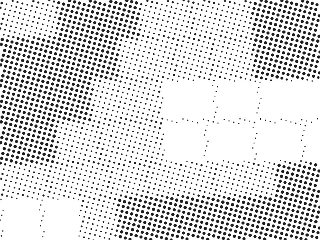
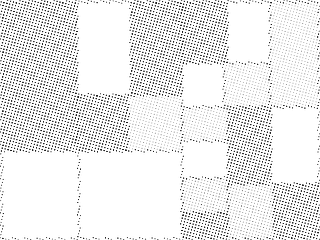
fix(art): rebuild plates as real data structures, add pointer parallax
The plates halftoned raw noise and read as noise. Each is now an actual
structure, screened afterwards: contour lines from gradient-normalised level
crossings; tree crowns drawn and clustered by a density field; a watershed
from priority-flood pit filling plus flow accumulation thresholded on
catchment size; parcels from recursive off-centre subdivision. Screen also
went finer (cell=3) — at cell=5 the lattice swallowed contour lines and
channel threads, which is what made the first set look random.

Plates now track the cursor and settle back on leave (transform only,
reduced-motion aware, rect cached on enter).

Fixes a zero-width .plate: <figure> carries a UA margin of 1em 40px and 80px
per column collapsed the grid tracks. It failed silently — a zero-size rect
makes the parallax offsets NaN, and translate(NaNpx) is dropped by the CSS
parser without error.

diff --git a/web/index.html b/web/index.html
@@ -8,7 +8,7 @@
 <link rel="preconnect" href="https://fonts.googleapis.com">
 <link rel="preconnect" href="https://fonts.gstatic.com" crossorigin>
 <link href="https://fonts.googleapis.com/css2?family=Inter+Tight:wght@400;500;600;700&family=JetBrains+Mono:wght@400;500;600&display=swap" rel="stylesheet">
-<link rel="stylesheet" href="/static/style.css?v=11">
+<link rel="stylesheet" href="/static/style.css?v=13">
 </head>
 <body>
 
@@ -194,6 +194,40 @@ const esc = (s) => String(s ?? "").replace(/[&<>"]/g, c => ({ "&": "&amp;", "<":
     if (!nodes.some((n) => n.getAttribute("data-shown") === "true"))
       nodes.forEach((n) => n.setAttribute("data-shown", "true"));
   }, 1200);
+})();
+
+/* --- plates track the cursor, then settle back --- */
+(function () {
+  if (window.matchMedia("(prefers-reduced-motion: reduce)").matches) return;
+  const DRIFT = 9; // px of parallax at the edge of a plate
+
+  document.querySelectorAll(".plate").forEach((plate) => {
+    const img = plate.querySelector("img");
+    let rect = null;
+
+    // Measure once on enter: reading getBoundingClientRect on every pointermove,
+    // interleaved with writing transform, thrashes layout.
+    plate.addEventListener("pointerenter", () => { rect = plate.getBoundingClientRect(); });
+
+    plate.addEventListener("pointermove", (e) => {
+      if (!rect) rect = plate.getBoundingClientRect();
+      // A zero-size rect would make these NaN, and `translate(NaNpx)` is silently
+      // dropped by the parser — the effect just stops working with no error.
+      if (!rect.width || !rect.height) return;
+      const nx = (e.clientX - rect.left) / rect.width - 0.5;
+      const ny = (e.clientY - rect.top) / rect.height - 0.5;
+      // Scale up first so the parallax shift never exposes the plate's edge.
+      img.style.transition = "transform 110ms linear";
+      img.style.transform =
+        `scale(1.09) translate(${(-nx * DRIFT).toFixed(2)}px, ${(-ny * DRIFT).toFixed(2)}px)`;
+    });
+
+    plate.addEventListener("pointerleave", () => {
+      rect = null;
+      img.style.transition = "transform 620ms var(--ease, cubic-bezier(.16,1,.3,1))";
+      img.style.transform = "";
+    });
+  });
 })();
 
 document.querySelectorAll(".tab").forEach(tab => {

diff --git a/web/style.css b/web/style.css
@@ -182,13 +182,19 @@ body::after {
   border: 1px solid var(--line); border-bottom: 0;
   background: var(--surface);
 }
-.plate { position: relative; border-right: 1px solid var(--line); overflow: hidden; }
+/* margin:0 is load-bearing — <figure> carries a UA default of `1em 40px`, and 80px
+   per column collapses the grid tracks to zero width. */
+.plate { position: relative; margin: 0; border-right: 1px solid var(--line); overflow: hidden; }
 .plate:last-child { border-right: 0; }
 .plate img {
   display: block; width: 100%; height: 104px; object-fit: cover;
-  opacity: 0.9; transition: opacity var(--dur) var(--ease), transform var(--dur) var(--ease);
+  opacity: 0.88;
+  /* Only opacity is transitioned here — transform is driven by the pointer handler,
+     which sets its own timing (fast while tracking, slow easing back to rest). */
+  transition: opacity var(--dur) var(--ease);
+  will-change: transform;
 }
-.plate:hover img { opacity: 1; transform: scale(1.04); }
+.plate:hover img { opacity: 1; }
 .plate span {
   position: absolute; left: 0; right: 0; bottom: 0;
   padding: 0.35rem 0.55rem;

diff --git a/scripts/make_art.py b/scripts/make_art.py
@@ -12,6 +12,7 @@ Out:  web/img/*.png, web/img/logo.svg
 
 from __future__ import annotations
 
+import heapq
 import math
 from pathlib import Path
 
@@ -117,46 +118,145 @@ def field_horizon(w: int = 1500, h: int = 620) -> np.ndarray:
 
 
 def field_terrain(w: int = 320, h: int = 240) -> np.ndarray:
-    """Topographic contour bands."""
-    elev = fbm((h, w), 5, 110)
-    bands = np.sin(elev * math.pi * 14.0)
-    contours = 1.0 - np.clip(1.0 - np.abs(bands) * 4.5, 0, 1)
-    return np.clip(contours * 0.75 + elev * 0.45, 0, 1)
+    """Real topographic contour lines.
+
+    Halftoning a raw elevation field just yields noise. Contours have to be drawn as
+    *lines*: find where elevation crosses each level, and divide by the local gradient
+    so the line keeps an even width instead of ballooning across flat ground.
+    """
+    elev = fbm((h, w), octaves=5, freq=150)
+    levels = elev * 9.0
+    gy, gx = np.gradient(levels)
+    grad = np.hypot(gx, gy) + 1e-6
+    crossing = np.abs(levels - np.round(levels)) / grad
+    lines = np.clip(crossing / 0.85, 0, 1)
+    # Every fifth contour is an index line, drawn heavier, as on a real map.
+    index = (np.round(levels) % 5 == 0)
+    lines = np.where(index, np.clip(crossing / 1.6, 0, 1), lines)
+    return np.clip(lines, 0, 1)
 
 
 def field_canopy(w: int = 320, h: int = 240) -> np.ndarray:
-    """Tree-crown cover with open gaps."""
-    base = fbm((h, w), 6, 48)
-    crowns = np.clip((base - 0.42) * 3.2, 0, 1)
-    return np.clip(1.0 - crowns * 0.88, 0, 1)
+    """Individual tree crowns, clustered into stands with clearings between them."""
+    img = Image.new("L", (w, h), 255)
+    draw = ImageDraw.Draw(img)
+    density = fbm((h, w), octaves=4, freq=90)
+
+    for _ in range(1400):
+        x, y = int(RNG.integers(0, w)), int(RNG.integers(0, h))
+        # Stands cluster where the density field is high; clearings stay open.
+        if density[y, x] < 0.44 or RNG.random() > density[y, x]:
+            continue
+        r = float(RNG.uniform(2.6, 7.0))
+        tone = int(RNG.integers(20, 95))
+        draw.ellipse([x - r, y - r, x + r, y + r], fill=tone)
+
+    return np.asarray(img.filter(ImageFilter.GaussianBlur(0.6)), np.float32) / 255.0
 
 
-def field_watershed(w: int = 320, h: int = 240) -> np.ndarray:
-    """Ridged noise — the branching channels of a drainage basin."""
-    n = fbm((h, w), 6, 120)
-    ridged = 1.0 - np.abs(n * 2.0 - 1.0)
-    return np.clip(1.0 - np.clip((ridged - 0.62) * 5.0, 0, 1) * 0.95, 0, 1)
+def _fill_pits(elev: np.ndarray) -> np.ndarray:
+    """Priority-flood depression filling.
+
+    Without this, flow terminates in every local minimum and the network comes out as
+    scattered fragments. Leaning on a steep regional tilt "fixes" that by making all
+    flow run straight downhill — which trades fragments for parallel streaks and still
+    isn't a drainage network. Filling the pits is what lets a noise-dominated surface
+    (the kind that actually branches) route properly.
+    """
+    h, w = elev.shape
+    filled = elev.copy()
+    seen = np.zeros((h, w), bool)
+    heap: list[tuple[float, int, int]] = []
+
+    for x in range(w):
+        for y in (0, h - 1):
+            heapq.heappush(heap, (float(filled[y, x]), y, x))
+            seen[y, x] = True
+    for y in range(h):
+        for x in (0, w - 1):
+            if not seen[y, x]:
+                heapq.heappush(heap, (float(filled[y, x]), y, x))
+                seen[y, x] = True
+
+    while heap:
+        e, y, x = heapq.heappop(heap)
+        for dy, dx in ((-1, 0), (1, 0), (0, -1), (0, 1)):
+            ny, nx = y + dy, x + dx
+            if 0 <= ny < h and 0 <= nx < w and not seen[ny, nx]:
+                seen[ny, nx] = True
+                # The epsilon keeps a usable gradient across filled flats.
+                raised = max(float(filled[ny, nx]), e + 1e-5)
+                filled[ny, nx] = raised
+                heapq.heappush(heap, (raised, ny, nx))
+    return filled
+
+
+def field_watershed(w: int = 260, h: int = 195) -> np.ndarray:
+    """A dendritic channel network from actual flow accumulation.
+
+    Depressions are filled, then water is routed downhill cell by cell (steepest
+    descent, highest ground first) and the accumulated flow thresholded. Thresholded
+    noise only ever produces blobs; this produces genuine branching drainage.
+    """
+    elev = fbm((h, w), octaves=6, freq=110)
+    tilt = np.linspace(0, 1, h)[:, None]
+    # Noise-dominant so tributaries converge; a light tilt just gives an outlet.
+    elev = _fill_pits(elev * 0.78 + (1.0 - tilt) * 0.22)
+
+    flat = elev.ravel()
+    acc = np.ones(h * w, np.float32)
+    order = np.argsort(flat)[::-1]            # drain from the highest ground down
+    offsets = [(-1, -1), (-1, 0), (-1, 1), (0, -1), (0, 1), (1, -1), (1, 0), (1, 1)]
+
+    for idx in order:
+        y, x = divmod(int(idx), w)
+        best, best_elev = -1, flat[idx]
+        for dy, dx in offsets:
+            ny, nx = y + dy, x + dx
+            if 0 <= ny < h and 0 <= nx < w:
+                n_idx = ny * w + nx
+                if flat[n_idx] < best_elev:
+                    best_elev, best = flat[n_idx], n_idx
+        if best >= 0:
+            acc[best] += acc[idx]
+
+    # Channel width grows with the log of upstream area, as real rivers do.
+    # Threshold on catchment size, not on "some flow". At 0.33 of the log range a cell
+    # needs only ~38 upstream cells to qualify, which is almost all of them — the frame
+    # fills with texture. 0.56 keeps the trunk and its real tributaries.
+    strength = np.log1p(acc.reshape(h, w)) / math.log(h * w)
+    channels = np.clip((strength - 0.56) * 10.0, 0, 1)
+    channels = np.asarray(
+        Image.fromarray((channels * 255).astype(np.uint8)).filter(ImageFilter.MaxFilter(3)),
+        np.float32,
+    ) / 255.0
+    return np.clip(1.0 - channels, 0, 1)
 
 
 def field_parcels(w: int = 320, h: int = 240) -> np.ndarray:
-    """Land division — a jittered lattice of parcels at differing tones."""
-    out = np.ones((h, w), np.float32)
-    tone = fbm((h, w), 3, 70)
-    y = 0
-    while y < h:
-        rh = int(RNG.integers(30, 58))
-        x = 0
-        while x < w:
-            rw = int(RNG.integers(34, 72))
-            block = tone[y : y + rh, x : x + rw]
-            if block.size:
-                v = float(block.mean())
-                out[y : y + rh, x : x + rw] = 0.30 if v > 0.62 else 0.68 if v > 0.42 else 1.0
-            out[y : y + rh, x : x + 1] = 0.12
-            x += rw
-        out[y : y + 1, :] = 0.12
-        y += rh
-    return np.clip(out, 0, 1)
+    """Land division by recursive subdivision — irregular lots, not a uniform lattice."""
+    img = Image.new("L", (w, h), 255)
+    draw = ImageDraw.Draw(img)
+
+    def split(x0: float, y0: float, x1: float, y1: float, depth: int) -> None:
+        bw, bh = x1 - x0, y1 - y0
+        if depth == 0 or (bw < 34 and bh < 34) or RNG.random() < 0.12:
+            tone = int(RNG.choice([255, 255, 232, 210, 165]))
+            draw.rectangle([x0, y0, x1, y1], fill=tone, outline=45, width=1)
+            return
+        # Split the longer side, off-centre, so lots read as surveyed rather than tiled.
+        t = float(RNG.uniform(0.34, 0.66))
+        if bw >= bh:
+            xm = x0 + bw * t
+            split(x0, y0, xm, y1, depth - 1)
+            split(xm, y0, x1, y1, depth - 1)
+        else:
+            ym = y0 + bh * t
+            split(x0, y0, x1, ym, depth - 1)
+            split(x0, ym, x1, y1, depth - 1)
+
+    split(1, 1, w - 2, h - 2, 5)
+    return np.asarray(img, np.float32) / 255.0
 
 
 # ------------------------------------------------------------------ halftone
@@ -262,10 +362,12 @@ def main() -> None:
     OUT.mkdir(parents=True, exist_ok=True)
     print("Generating Canopy artwork:")
     emit("hero-horizon", field_horizon(), cell=6, scale=3)
-    emit("plate-terrain", field_terrain())
-    emit("plate-canopy", field_canopy())
-    emit("plate-watershed", field_watershed())
-    emit("plate-parcels", field_parcels())
+    # Finer screen on the plates: at cell=5 the dot lattice swallows contour lines and
+    # channel threads, which is what made the earlier set read as random noise.
+    emit("plate-terrain", field_terrain(), cell=3, scale=5)
+    emit("plate-canopy", field_canopy(), cell=3, scale=5)
+    emit("plate-watershed", field_watershed(), cell=3, scale=5)
+    emit("plate-parcels", field_parcels(), cell=3, scale=5)
     write_logo()
 
 

diff --git a/docs/INTERNAL_REFERENCE.md b/docs/INTERNAL_REFERENCE.md
@@ -1,10 +1,10 @@
-# Verification Agent — Internal Reference & Build Log
+# Canopy — Internal Reference & Build Log
 
 > Internal working doc. Not the README (that's the outward pitch). This is the "what we
 > actually did, why, what broke, and where we go next" record. Written to be picked up
 > cold after a break.
 
-Last updated: 2026-08-08 (session 2 — scan, community-benefit, attestation).
+Last updated: 2026-08-09 (session 3 — Canopy brand, generated artwork, plate redesign).
 
 > **Session 2 additions** (see §11 at the bottom): the national scan, the community-benefit
 > "path to yes" layer, and the content-hashed attestation artifact. The §1–§10 material below
@@ -541,3 +541,69 @@ combine us with?"). Fixed by adding an independent second source.
   swallowed. Tests: 52 total (was 50), incl. the fusion path and the graceful-degradation path.
 - **GFW note:** Global Forest Watch tree-cover-loss (actual deforestation pixels) needs a free
   API key (403 keyless); logged as the optional keyed upgrade, not built.
+
+---
+
+## 14. Canopy brand: generated artwork, logo, plates (2026-08-08/09)
+
+Rebranded the demo from "Verification Agent" to **Canopy**, with all imagery generated
+rather than sourced (the Dribbble references are other people's artwork).
+
+### 14.1 `scripts/make_art.py`
+One reproducible script produces every asset. A real halftone screen — one dot per cell,
+radius tracking local darkness, supersampled then downscaled — is applied over procedural
+fields. Output: `web/img/*.png` + `logo.svg`.
+
+### 14.2 The plates had to become real structures
+The first set halftoned raw noise fields and looked, correctly, like random noise. Each
+was rebuilt as an actual structure, then screened:
+
+| Plate | Method |
+|---|---|
+| Terrain | Contour **lines**: elevation crossings divided by local gradient so line width stays even; every 5th is a heavier index line |
+| Canopy cover | Individual crowns drawn as circles, clustered by a density field so stands and clearings emerge |
+| Watershed | Priority-flood pit filling → steepest-descent routing → flow accumulation → threshold on catchment size |
+| Parcels | Recursive BSP subdivision with off-centre splits, varied lot tones |
+
+Screen also went finer for the plates (`cell=3, scale=5`): at `cell=5` the dot lattice
+swallowed contour lines and channel threads, which is *why* the first set read as noise.
+
+### 14.3 The watershed took four passes — worth recording
+1. Thresholded ridged noise → blobs, no connectivity.
+2. Flow accumulation on a gently tilted surface → scattered fragments (flow dies in local pits).
+3. Steep regional tilt to escape the pits → parallel vertical streaks, since every cell then
+   drains straight down and nothing converges.
+4. **Priority-flood pit filling + noise-dominant surface** → genuine dendritic network.
+   Threshold also moved from 0.33 to 0.56 of the log range: at 0.33 a cell needs only ~38
+   upstream cells to qualify, so nearly every cell did and the frame filled with texture.
+
+### 14.4 Hero plate
+A forested horizon built like a screen print: flat tonal ridges painted front-over-back with
+mist pooling under each crest. Two earlier failures are documented in §13 of this file
+(gradient-instead-of-landscape, and the inverted `freq` parameter).
+
+### 14.5 Logo — four attempts, all association failures
+Rendered at 160/64/28/16px and inverted each time; the small sizes are where marks break.
+1. Three overlapping crowns → **cloud**. Also a silent bug: `fill-rule="evenodd"` resolves
+   within a single path, never across sibling `<circle>` elements, so the intended
+   negative-space knockout never happened and it rendered as a solid blob.
+2. Nested arcs + dot → **upside-down wifi**.
+3. Concentric contour rings → topographic at 160px, **eye** at 16px.
+4. **Two angular ridge lines** → terrain. Shipped. Smooth parallel curves read as the water
+   glyph, so angular peaks and two lines (not three) were both necessary.
+
+### 14.6 Plate hover interaction
+Pointer-driven parallax: `scale(1.09)` plus up to 9px of translation opposite the cursor,
+110ms while tracking, 620ms eased return on leave. Transform only (compositor-friendly);
+disabled under `prefers-reduced-motion`; rect cached on `pointerenter` to avoid layout
+thrash from read/write interleaving.
+
+### 14.7 Bugs fixed
+- **`.plate` had zero width.** `<figure>` carries a UA default margin of `1em 40px`; 80px per
+  column collapsed the grid tracks. Symptom was subtle — the parallax silently did nothing,
+  because a zero-size rect makes the offsets NaN and `translate(NaNpx)` is dropped by the CSS
+  parser with no error. Fixed with `margin: 0`, plus a guard in the handler.
+- **`index.html` served from cache** during development — spent a cycle debugging markup that
+  was no longer on disk. Added `Cache-Control: no-store` to the index route.
+- **Hero CTA clipped** at short viewports (`overflow: hidden` + inline-block baseline + no
+  bottom padding).
